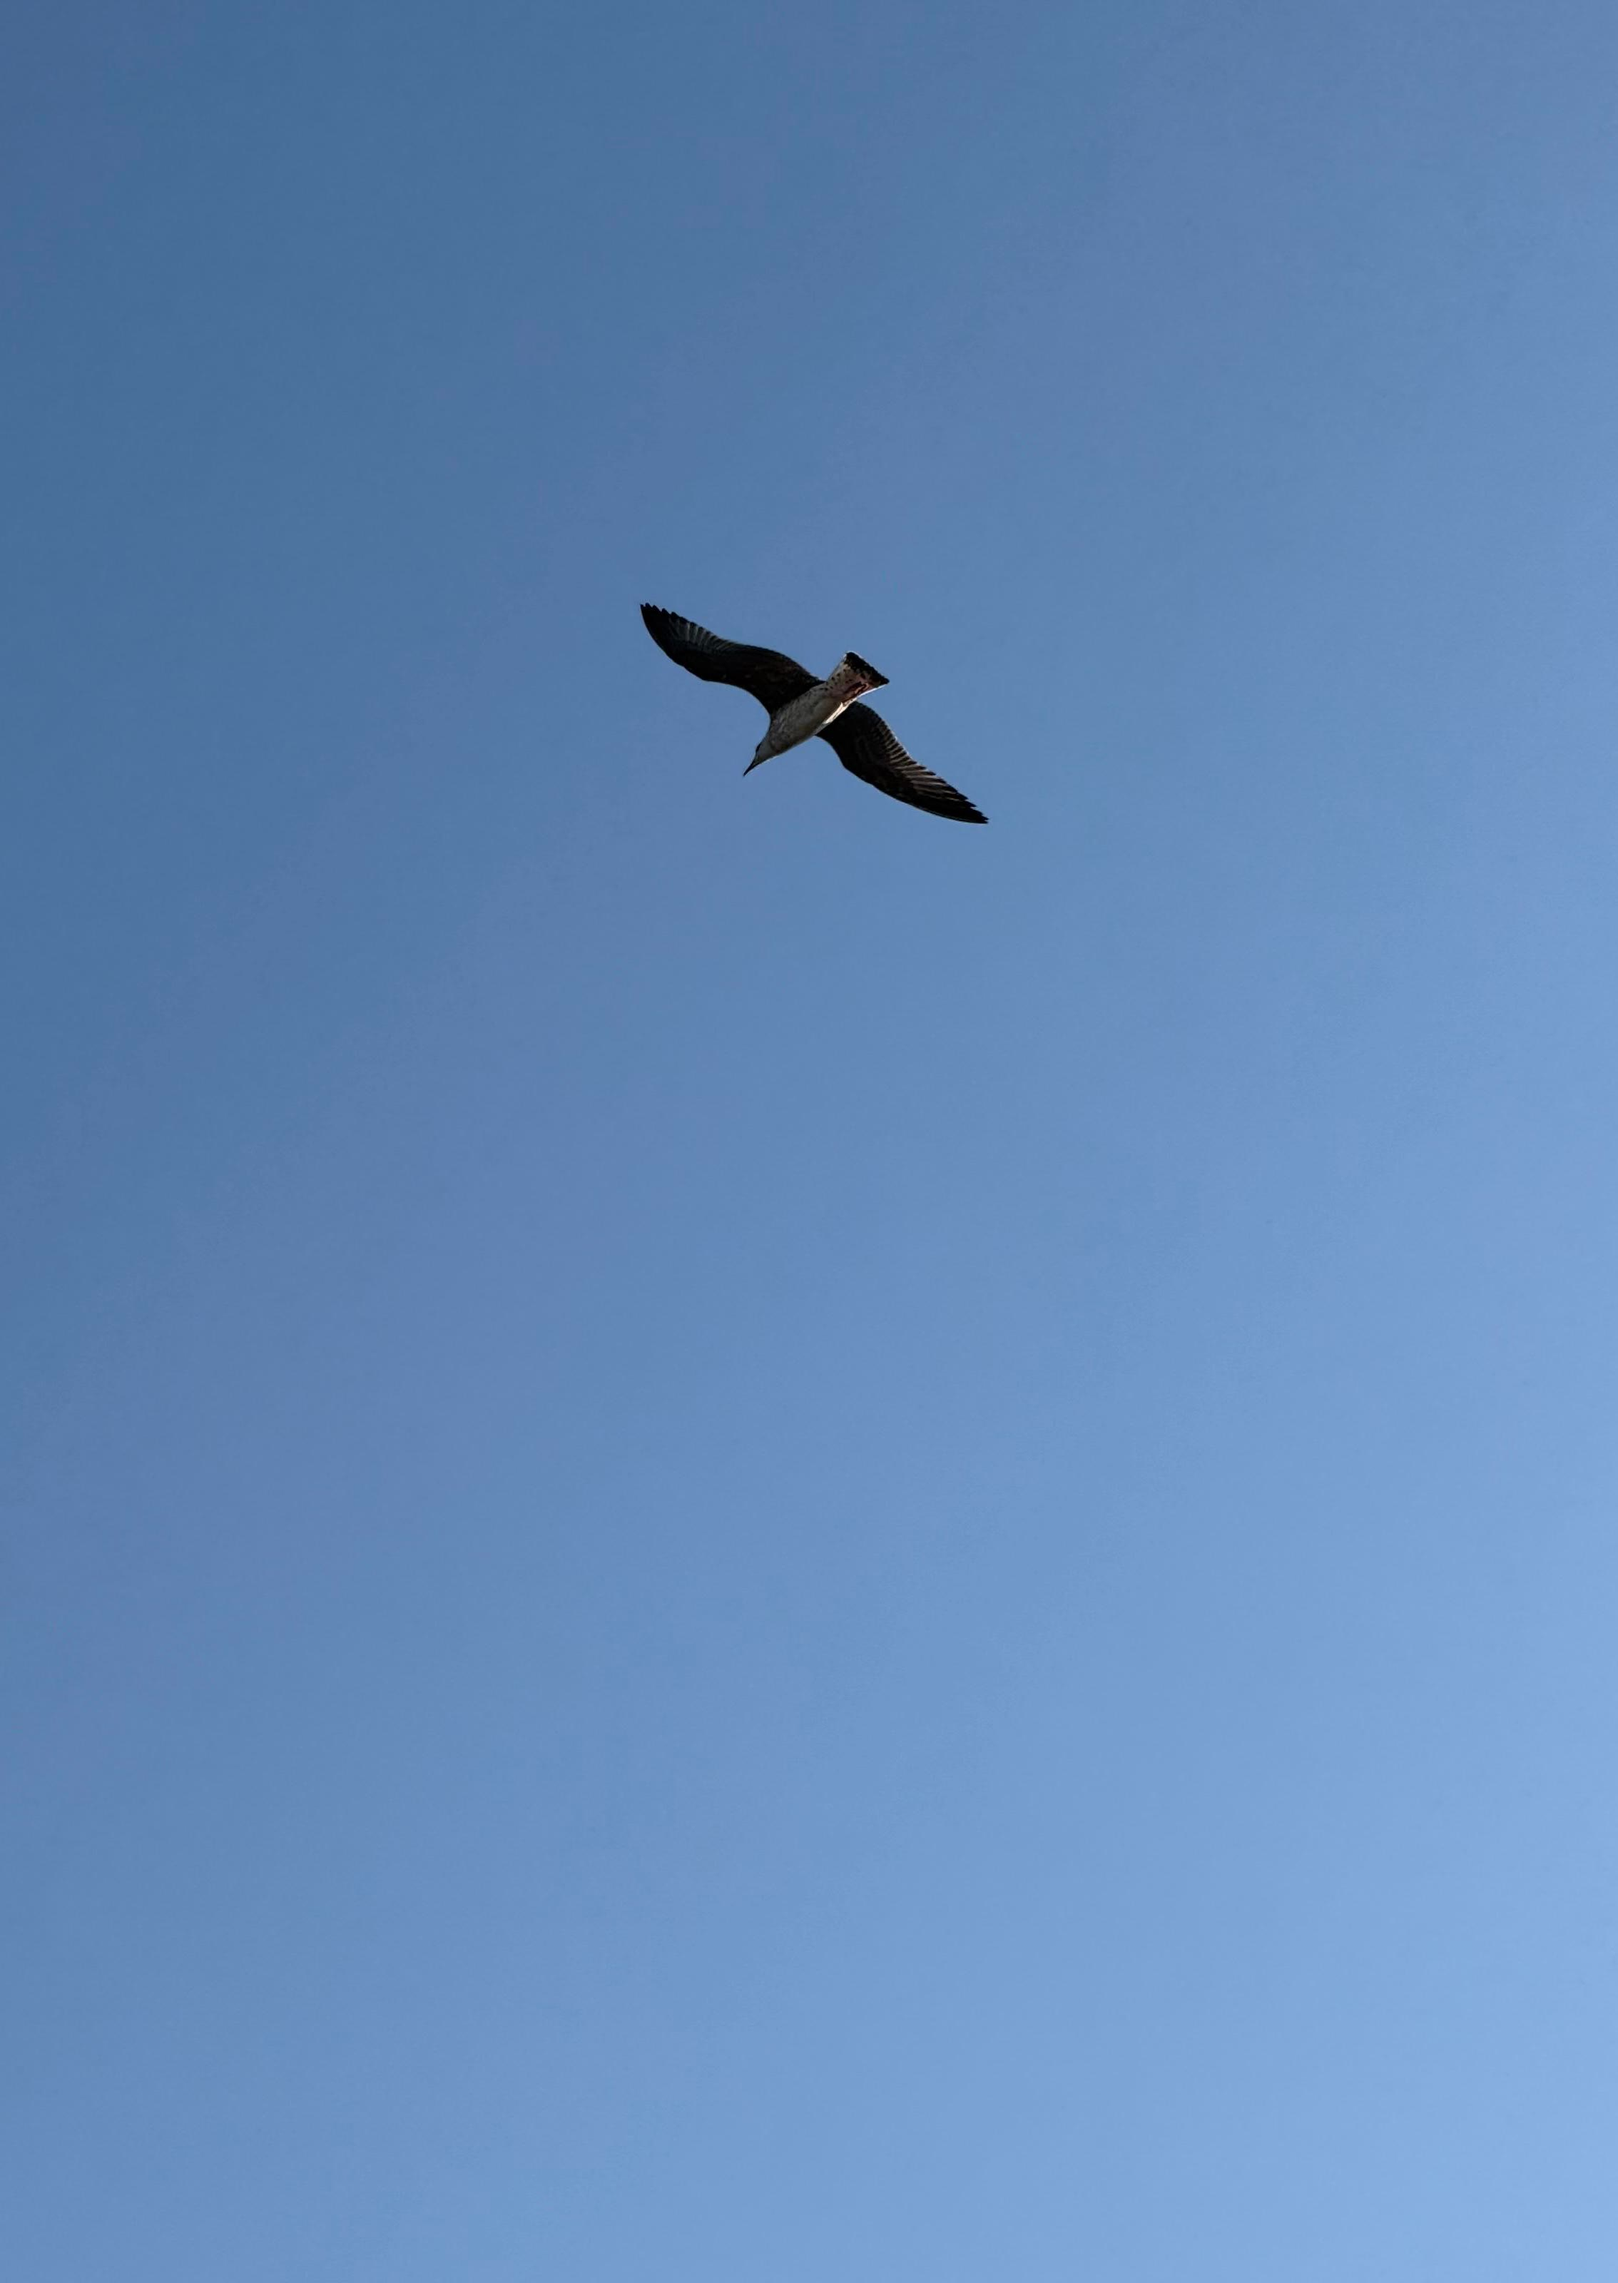
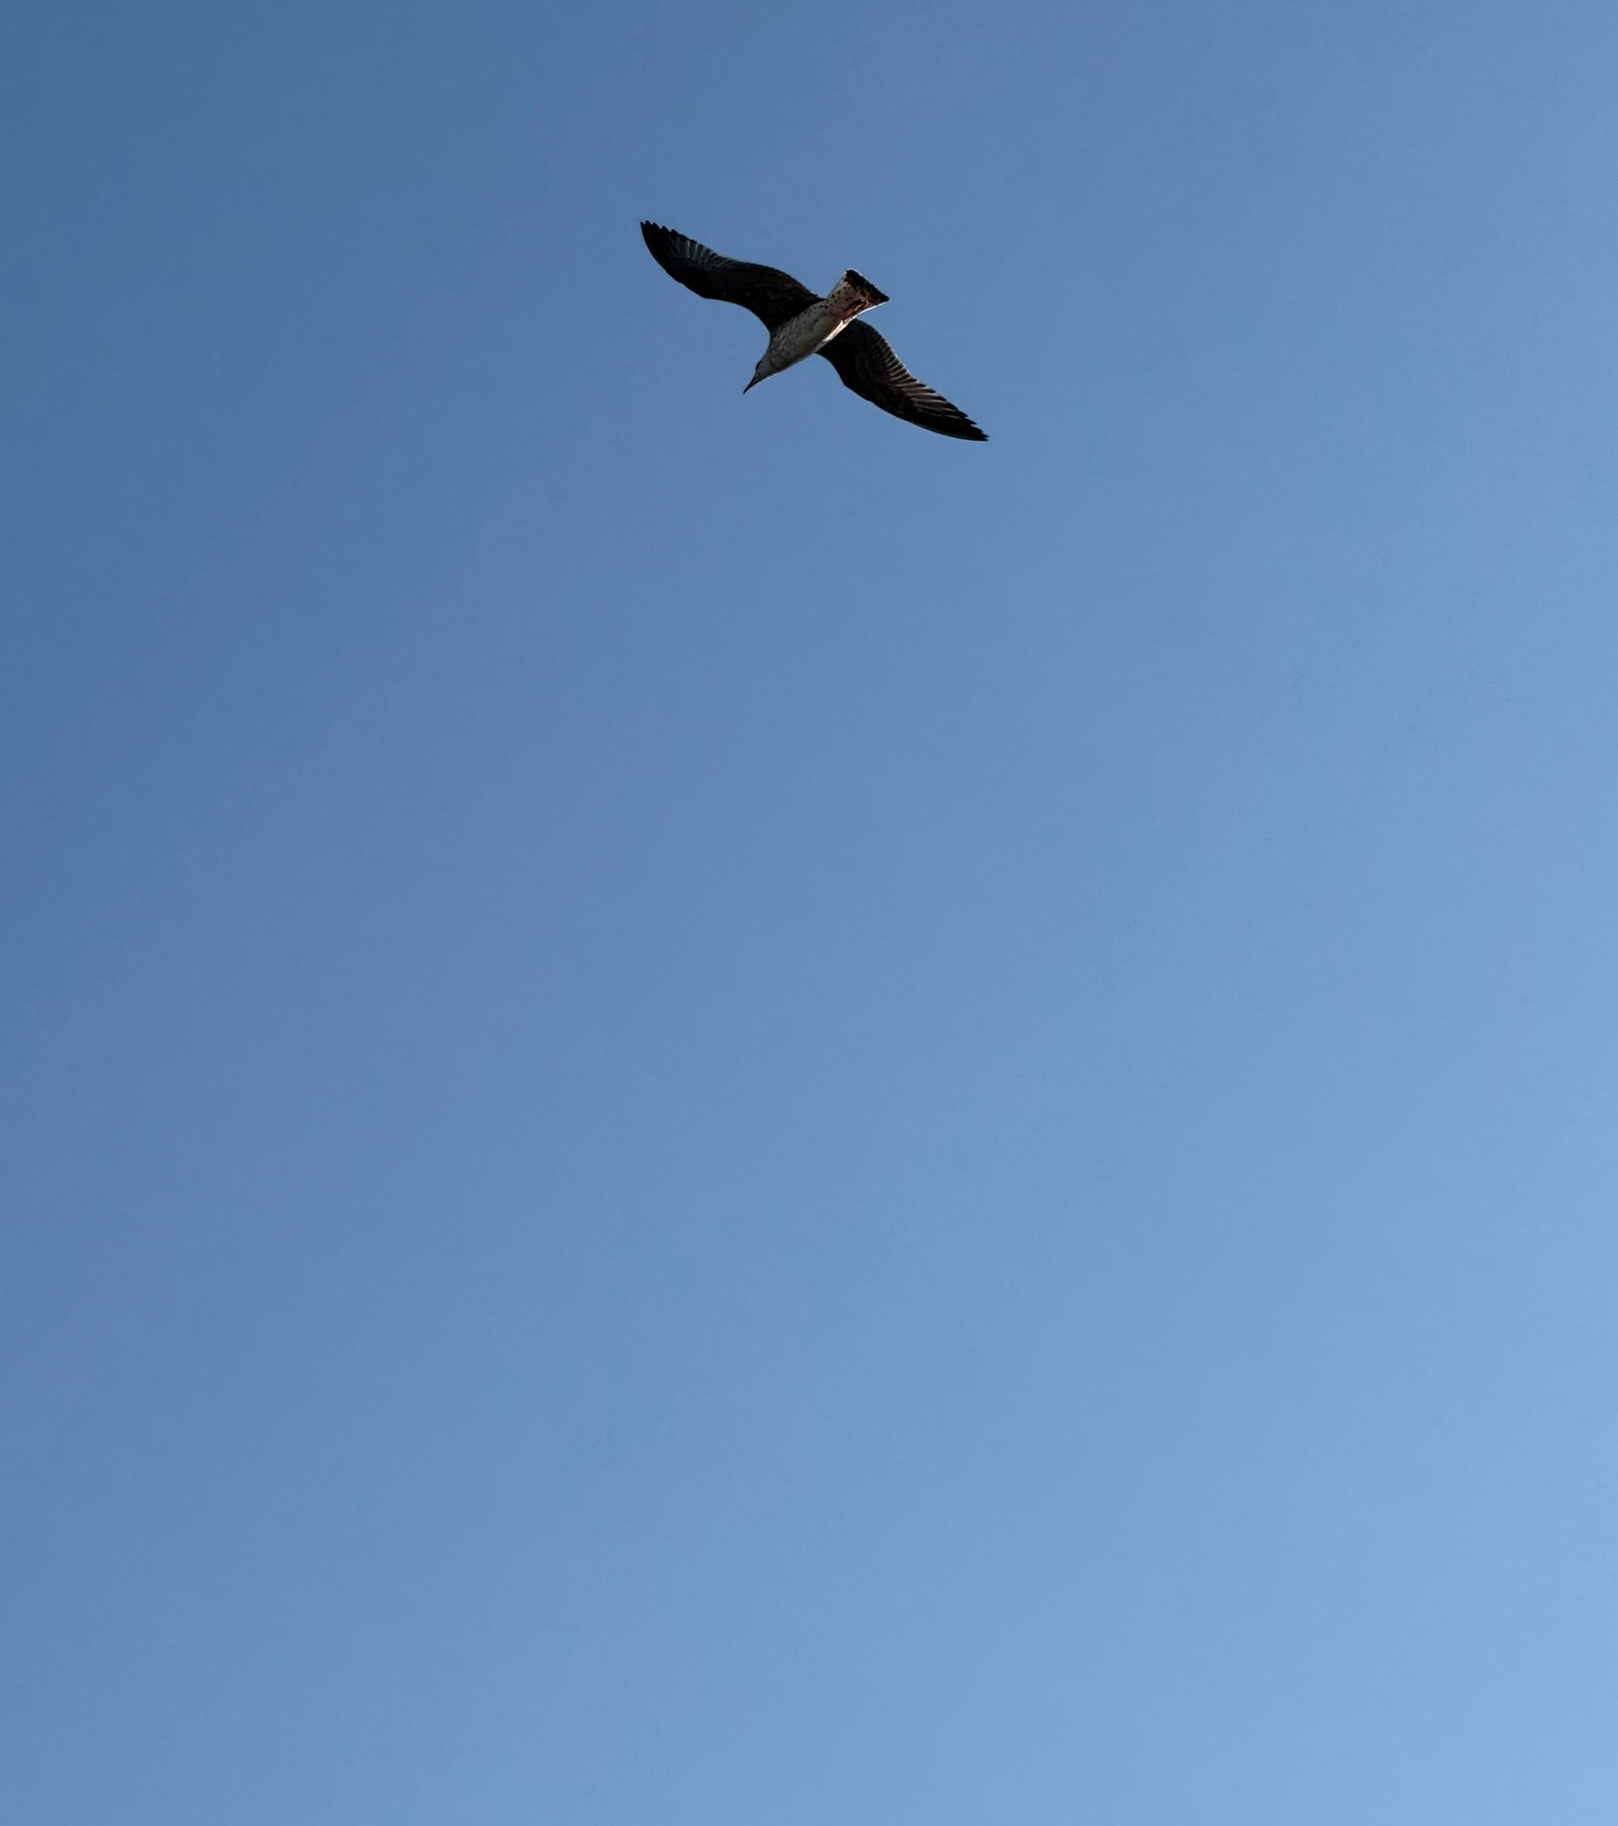
Móvil: gaviota más alta en el recorte vertical y titular algo más compacto

Changed region(s): [[0.4012, 0.125, 0.6173, 0.25], [0.4012, 0.25, 0.6173, 0.375]]

diff --git a/src/styles/global.css b/src/styles/global.css
@@ -181,7 +181,9 @@ a { color: inherit; }
   .nav-links a { font-size: 0.95rem; letter-spacing: 0.04em; text-transform: none; opacity: 1; }
   .nav-lang a { opacity: 0.7; }
   .site-header:not(.scrolled) .nav-cta { background: var(--color-sea); border-color: var(--color-sea); color: var(--color-surface); }
-  .hero { padding: 6rem 0 3rem; align-items: flex-end; }
+  .hero { padding: 6rem 0 2.6rem; align-items: flex-end; }
+  .hero-title { font-size: clamp(2.6rem, 11vw, 3rem); margin-bottom: 1.2rem; }
+  .hero-sub { font-size: 1rem; margin-bottom: 1.6rem; }
   .hero-media::after { background: linear-gradient(180deg, rgba(27,36,48,0.10) 0%, rgba(27,36,48,0.04) 40%, rgba(27,36,48,0.34) 100%); }
   .block { padding: 4.5rem 0; }
   .lines li { grid-template-columns: 1fr; gap: 0.35rem; }
